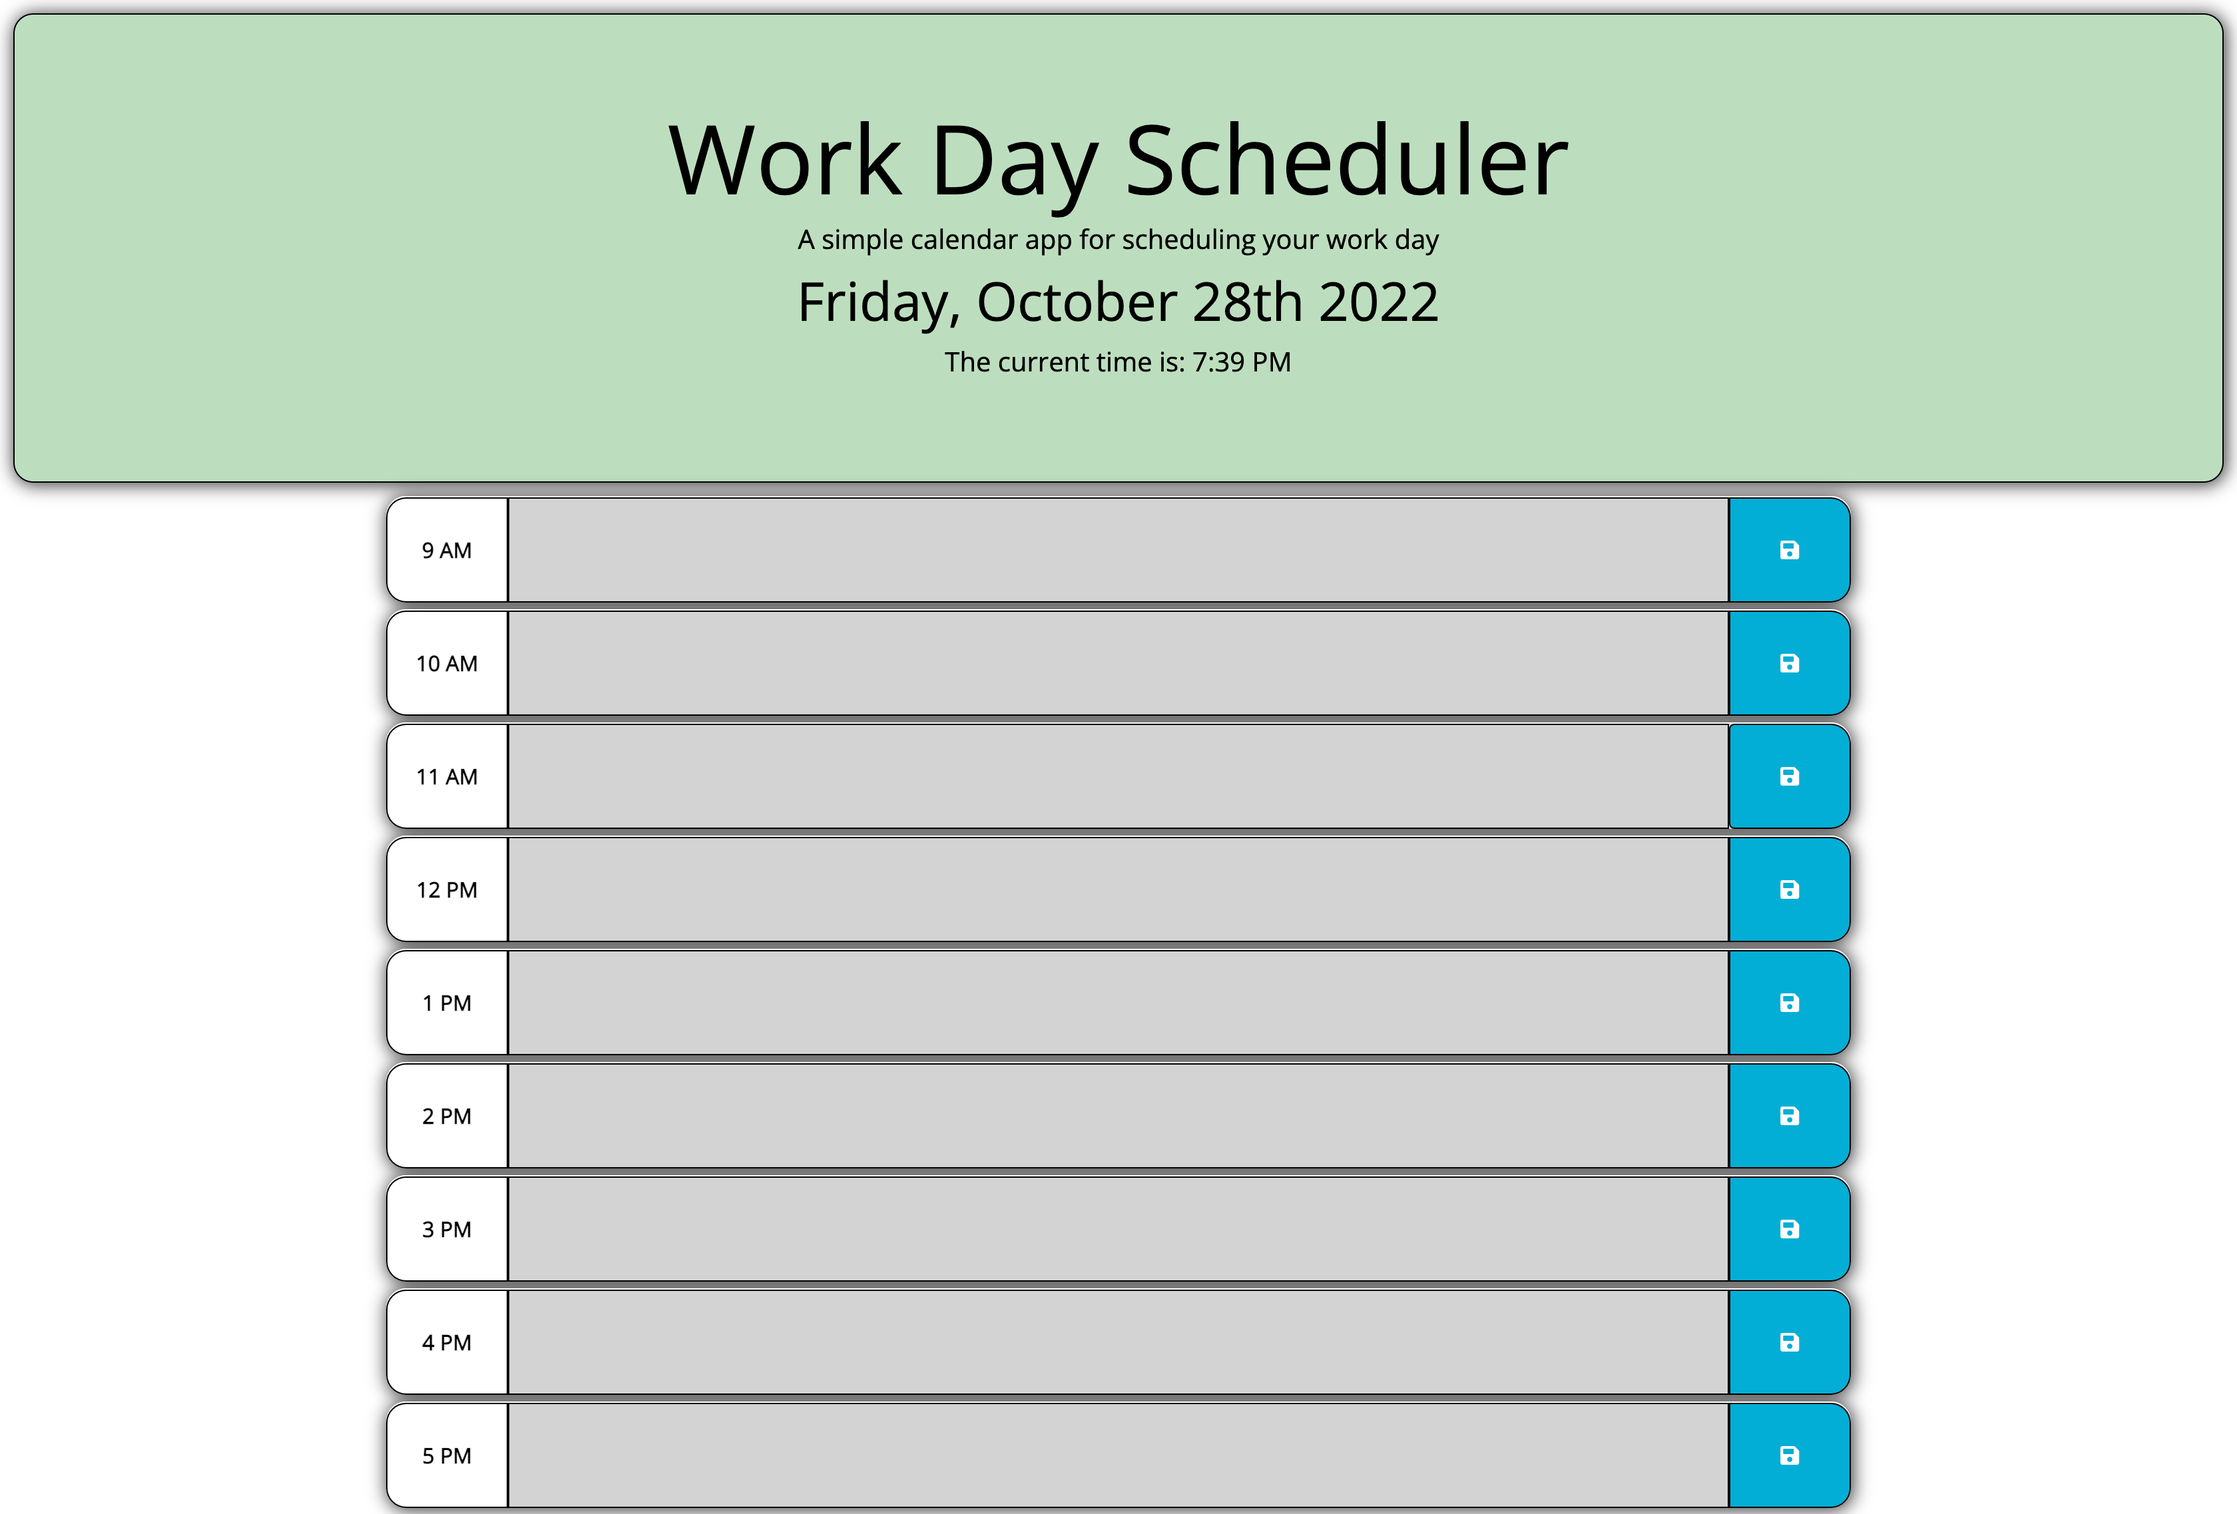
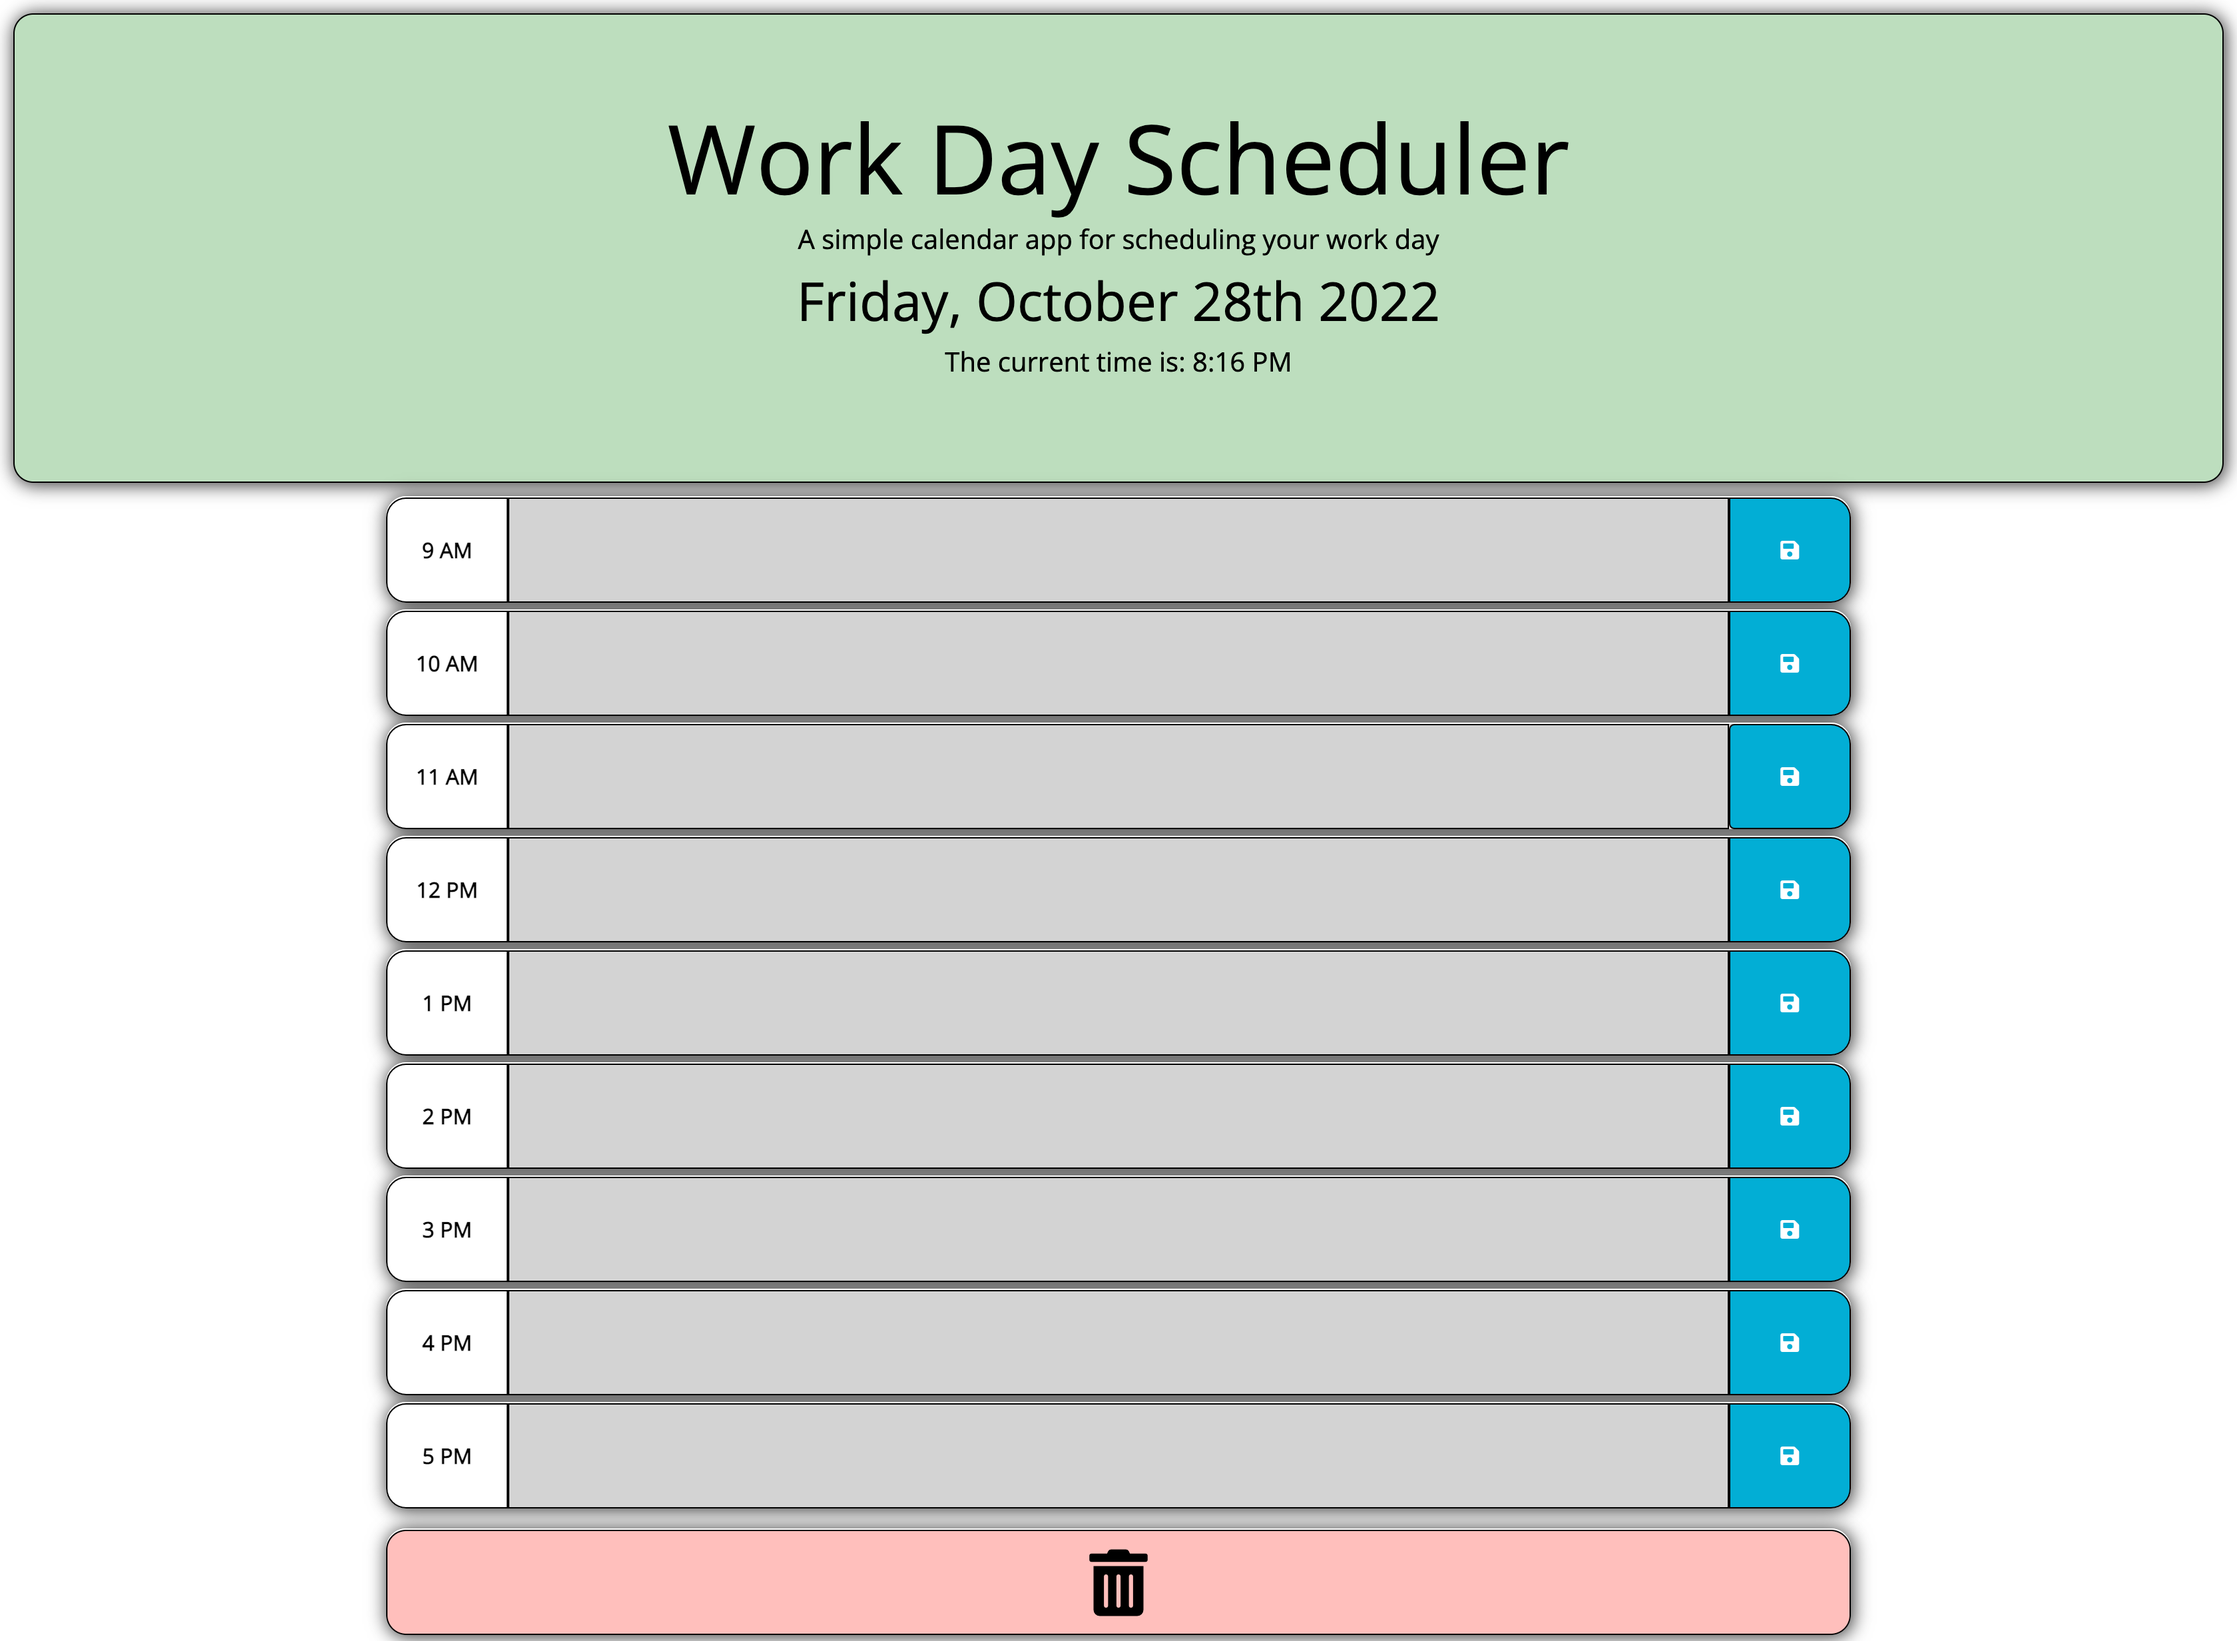
Added Clear storage button, added styling and JS functionality to it, Updated README.md screenshot to show button

Changed region(s): [[0.0, 0.281, 1.0, 0.8742], [0.1562, 0.9055, 0.8438, 0.9991], [0.2812, 0.0624, 0.6875, 0.2498]]

diff --git a/assets/js/script.js b/assets/js/script.js
@@ -4,6 +4,7 @@ var currentDay = $('#currentDay');
 var plannerRow = $('.time-block')
 var plannerDiv = $('#planner-div')
 var saveBtn = $('.saveBtn')
+var clearBtn = $('.clearBtn')
 var timeNowEl = $('#timeNow')
 //Global Variables
 var currentTime = parseInt(moment().format('HH')) //24 Hour format 
@@ -52,4 +53,10 @@ saveBtn.on('click', function (event) {
     var getTextContent = $(this).siblings('textarea').val()
     localStorage.setItem (key, getTextContent)
 });
- 
+//Event Listener to clear local storage
+clearBtn.on('click', function (event) {
+    event.preventDefault();
+    event.stopPropagation();
+    localStorage.clear()
+    renderSaved()   
+});

diff --git a/index.html b/index.html
@@ -87,6 +87,9 @@
         <textarea class="col-10 "></textarea>
         <button class="saveBtn col-1"><i class="fas fa-save"></i></button> 
       </div> 
+      <div id="18" class="row delete-block">
+        <button class="clearBtn col-12"><i class="fas fa-trash-alt"></i></button> 
+      </div> 
    
     </div>
     <script src="https://cdnjs.cloudflare.com/ajax/libs/jquery/3.2.1/jquery.min.js"></script>

diff --git a/assets/css/style.css b/assets/css/style.css
@@ -80,3 +80,21 @@ textarea {
   color: yellow
 }
 
+.delete-block{
+  margin: 15px 5px 5px 5px;
+  box-shadow: 1px 1px 13px 1px rgba(0,0,0,0.75);
+  border-radius: 15px;
+  font-size: 50px;
+}
+
+.clearBtn {
+  border: 1px solid black;
+  border-radius: 15px;
+  background-color: #ff00004c;
+  color: black;
+}
+
+.clearBtn i:hover {
+  transition: all 0.1s ease-in-out;
+  color: yellow
+}

diff --git a/README.md b/README.md
@@ -9,6 +9,7 @@ This project is a daily work planner to help organize your day. Creating this pr
 - Enter event detail into the allocated time area.
 - Click save button to save event details. This will save the event to local storage.
 - Text areas will change color depending on the current time. Grey - Past, Red - Present, Green - Future.
+- Click on the trash can to delete all saved items. 
 
 ## 🔗 Links
 
